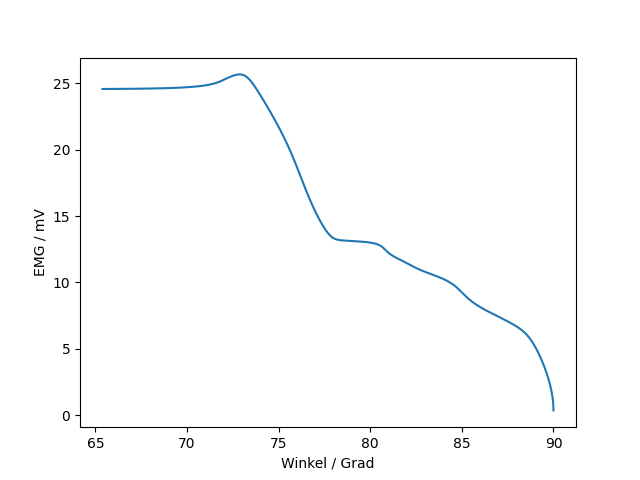
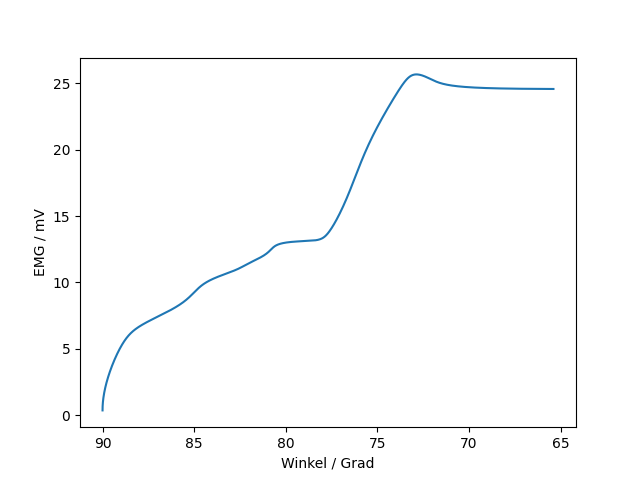
90 linkssss, yesss

diff --git a/main.py b/main.py
@@ -161,10 +161,9 @@ for person in range(3):
         directory = os.path.join(directory, "result")
         path = os.path.join(directory, "result_angle_emg_" + str(person + 1) + "_" + str(dataset + 1) + ".png")
 
-        print(data_hamstring[person][dataset])
-
         plt.figure()
         plt.plot(data_hamstring[person][dataset]["angle"], data_hamstring[person][dataset]["emg"])
+        plt.gca().invert_xaxis() # x-Achse mit abnehmenden Werten
         plt.xlabel("Winkel / Grad")
         plt.ylabel("EMG / mV")
         plt.savefig(path)
